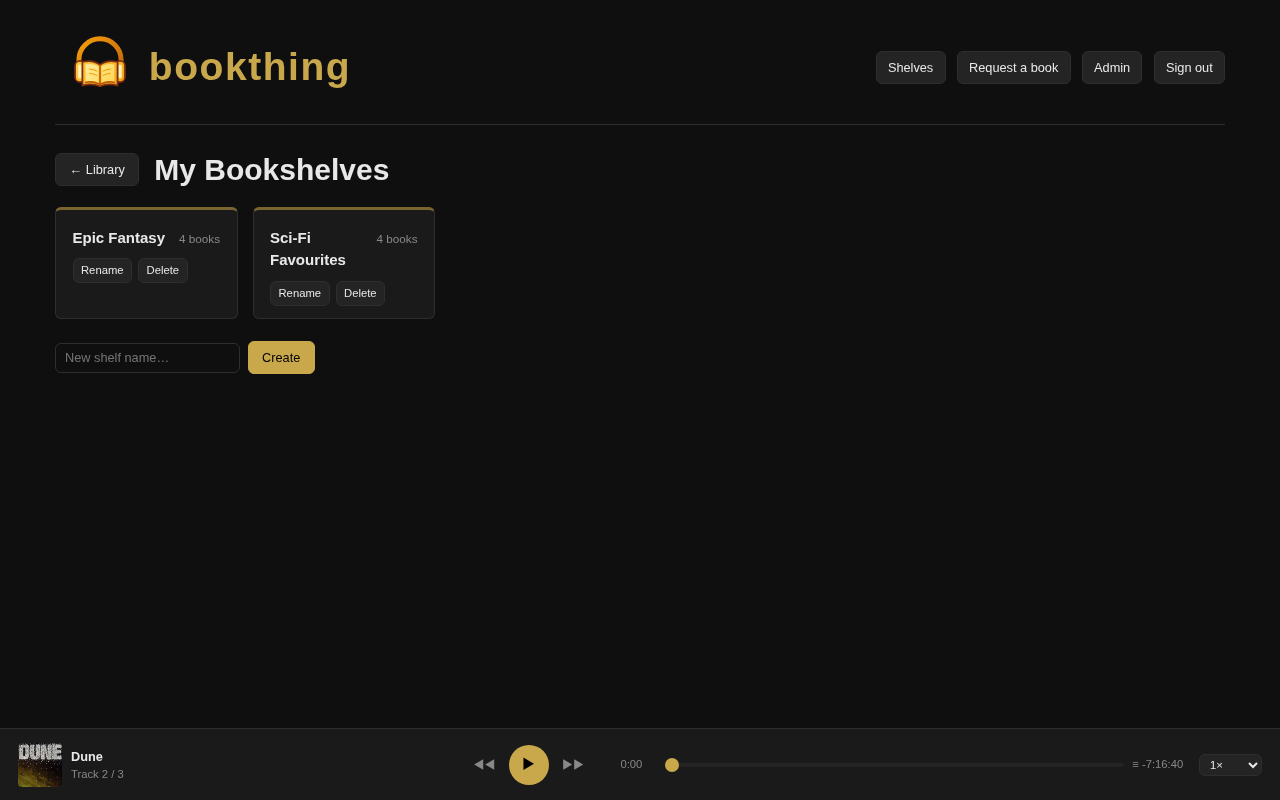
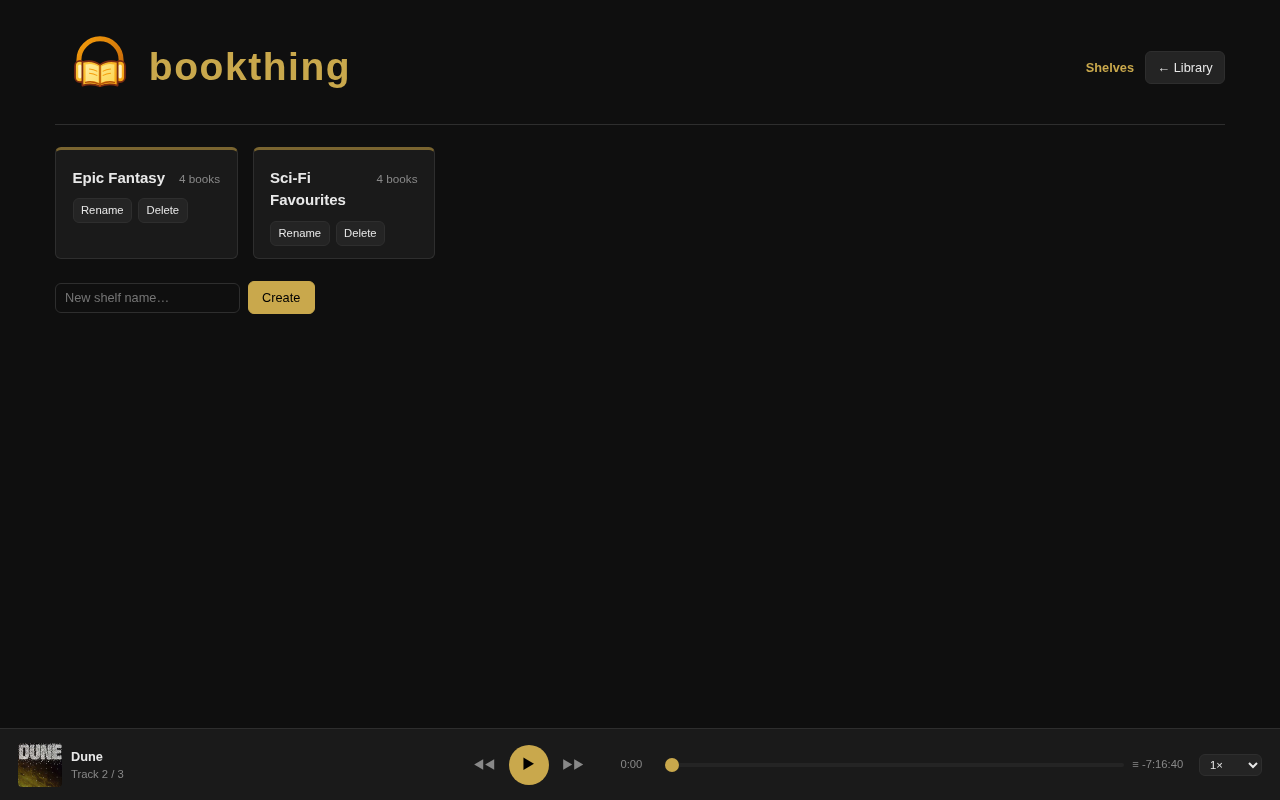
Move shelf back buttons into site header to match admin layout
Both the shelves list and shelf detail now use the same header pattern
as the admin page: logo → page label → back button.

Changed region(s): [[0.0625, 0.1562, 0.3438, 0.4688], [0.6875, 0.0625, 0.9375, 0.0938], [0.0625, 0.4375, 0.125, 0.4688]]

diff --git a/static/app.js b/static/app.js
@@ -897,12 +897,15 @@ async function renderShelves() {
   }
 
   app.innerHTML = `
-    ${headerHtml(session)}
-    <div class="page-content">
-      <div class="shelves-header">
-        <button class="btn" id="back-to-library">&#8592; Library</button>
-        <h1>My Bookshelves</h1>
+    <div class="site-header">
+      <div class="site-brand" id="nav-home">
+        <img src="/icon-nav.svg" alt="" class="site-icon">
+        <span class="site-name">bookthing</span>
       </div>
+      <span style="color:var(--accent);font-size:0.85rem;font-weight:600;">Shelves</span>
+      <button class="btn" id="back-to-library">&#8592; Library</button>
+    </div>
+    <div class="page-content">
       <div class="shelf-grid" id="shelf-grid">${shelvesHtml(shelves)}</div>
       <div class="shelf-new-row" id="shelf-create-row">
         <input id="shelf-create-name" class="shelf-new-input" placeholder="New shelf name…">
@@ -910,7 +913,7 @@ async function renderShelves() {
       </div>
     </div>`;
 
-  wireHeaderEvents();
+  document.getElementById("nav-home").addEventListener("click", () => navigate("/"));
   document.getElementById("back-to-library").addEventListener("click", () => navigate("/"));
 
   function wireShelfGrid() {
@@ -971,18 +974,21 @@ async function renderShelfDetail(shelfId) {
   const shelfName = books._shelfName || "";
 
   app.innerHTML = `
-    ${headerHtml(session)}
-    <div class="page-content">
-      <div class="shelves-header">
-        <button class="btn" id="back-to-shelves">&#8592; Shelves</button>
-        <h1 id="shelf-detail-title" class="shelf-detail-h1">Shelf</h1>
+    <div class="site-header">
+      <div class="site-brand" id="nav-home">
+        <img src="/icon-nav.svg" alt="" class="site-icon">
+        <span class="site-name">bookthing</span>
       </div>
+      <span id="shelf-detail-title" style="color:var(--accent);font-size:0.85rem;font-weight:600;">${esc(shelfName)}</span>
+      <button class="btn" id="back-to-shelves">&#8592; Shelves</button>
+    </div>
+    <div class="page-content">
       <div class="book-grid" id="shelf-book-grid">
         ${buildShelfBookCards(books, shelfId)}
       </div>
     </div>`;
 
-  wireHeaderEvents();
+  document.getElementById("nav-home").addEventListener("click", () => navigate("/"));
   document.getElementById("back-to-shelves").addEventListener("click", () => navigate("/shelves"));
 
   // Fetch shelf name

diff --git a/static/style.css b/static/style.css
@@ -1729,15 +1729,6 @@ input:focus, select:focus {
   padding: 0.2rem 0.5rem;
 }
 
-.shelves-header {
-  display: flex;
-  align-items: center;
-  gap: 1rem;
-  margin: 1.5rem 0 1rem;
-}
-.shelves-header h1 { margin: 0; }
-
-.shelf-detail-h1 { margin: 0; }
 
 .shelf-new-row {
   display: flex;
